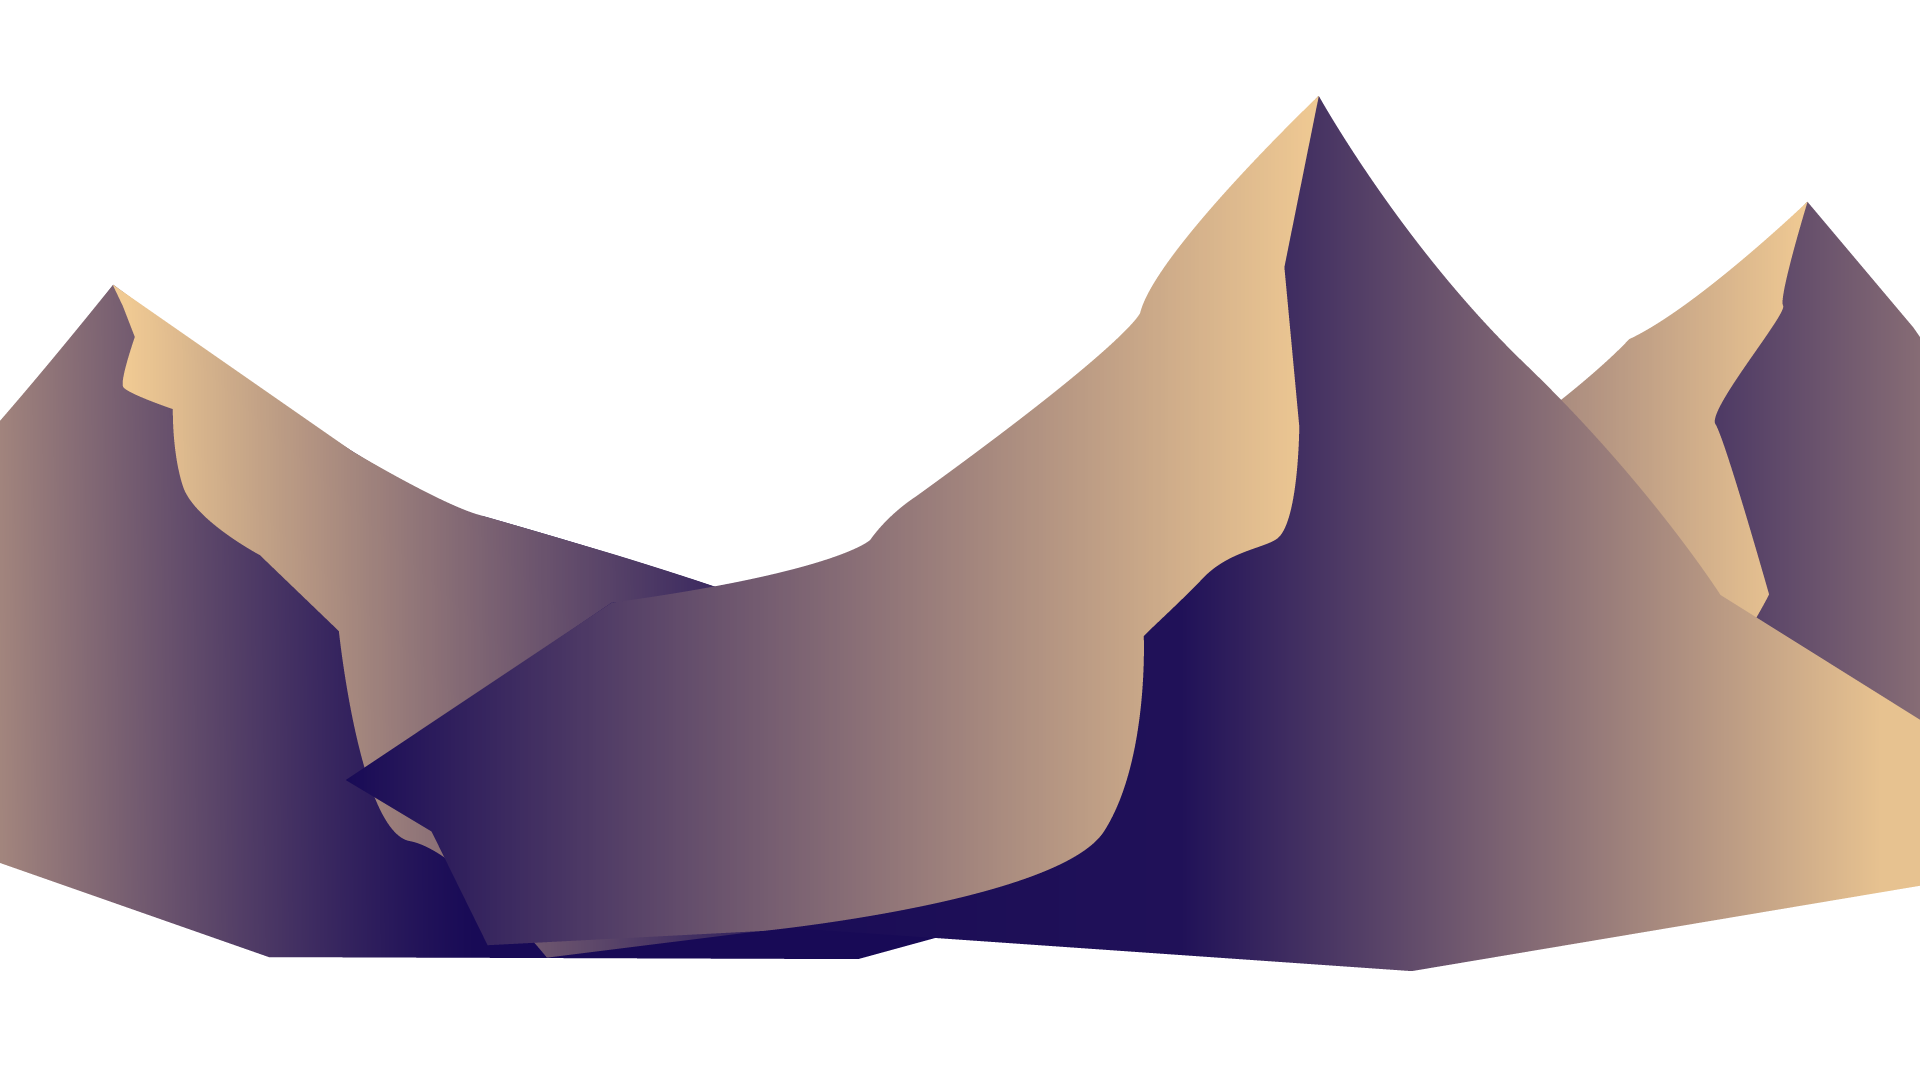
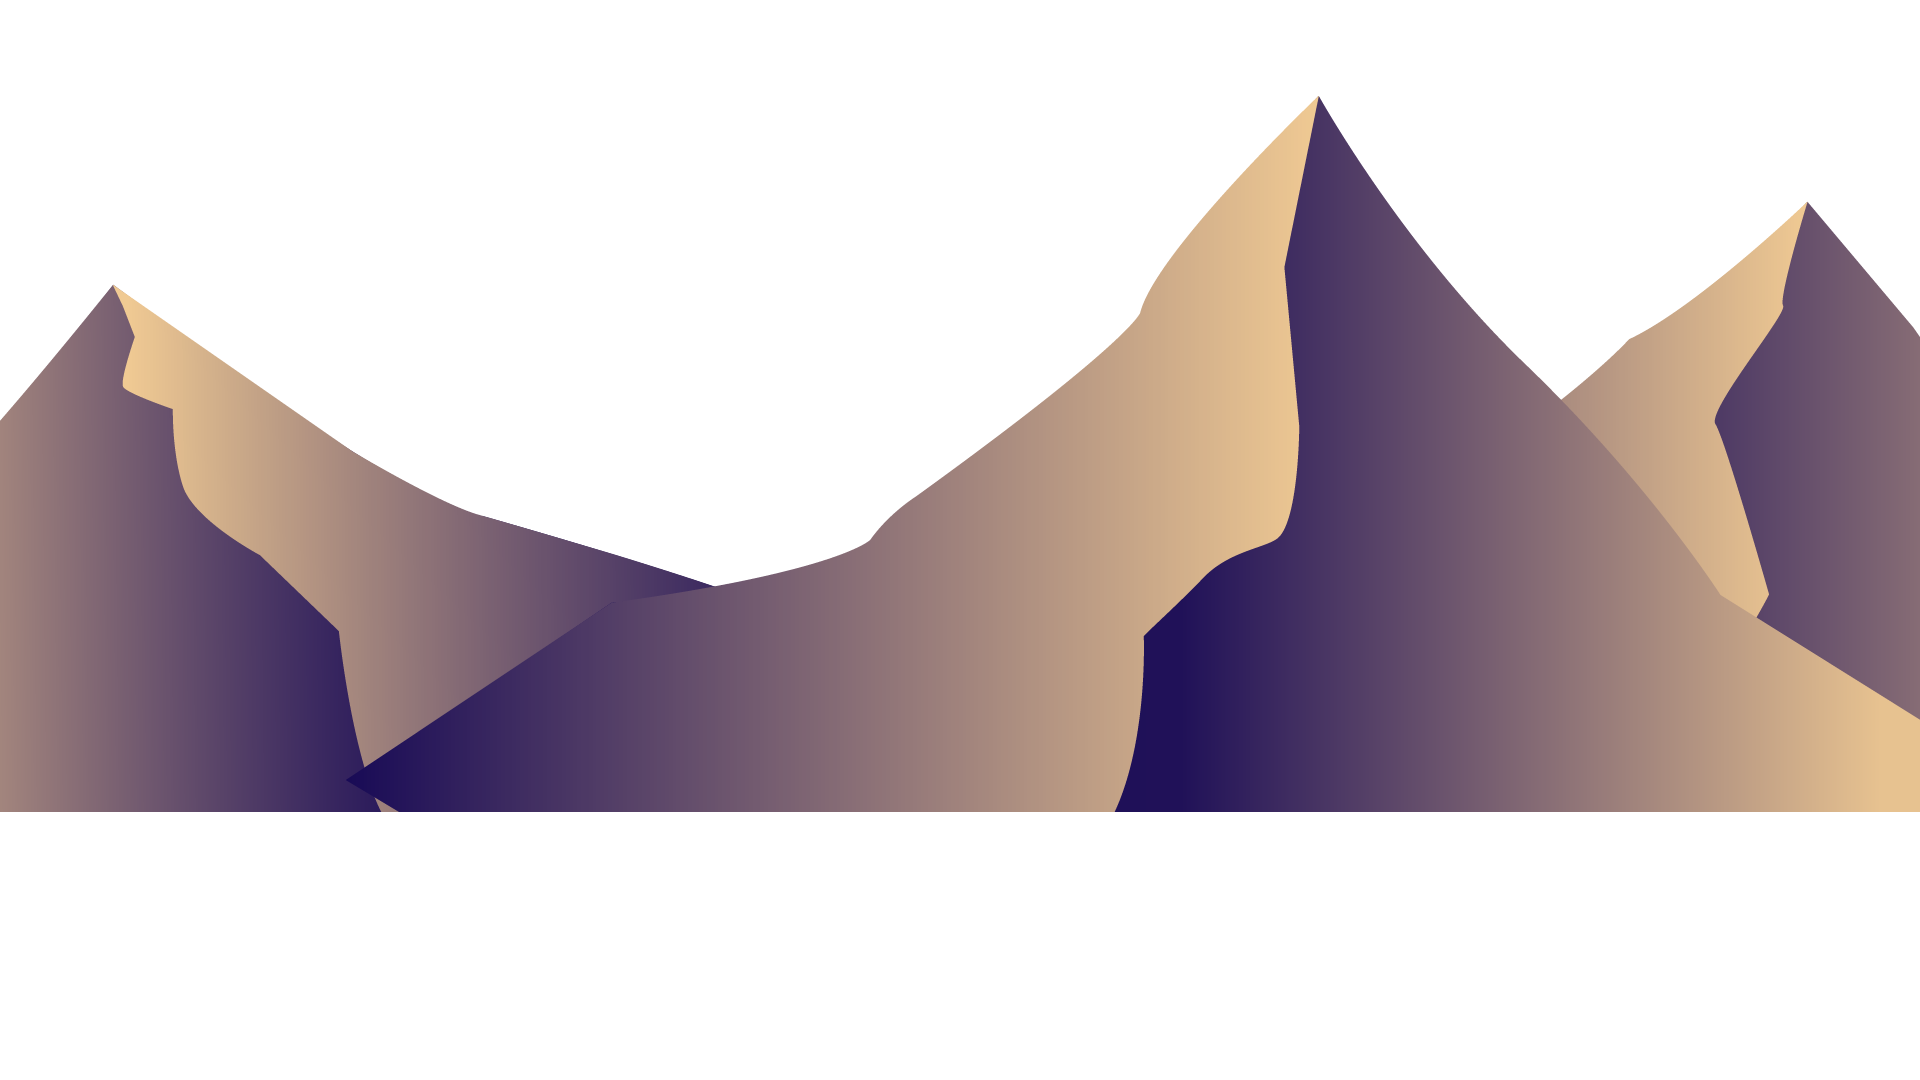
couple updates on the effect

Changed region(s): [[0.0, 0.7333, 1.0, 0.9167]]

diff --git a/style.css b/style.css
@@ -43,6 +43,7 @@ header ul{
     justify-content: center;
     align-items: center;
     flex-wrap: wrap;
+    
 }
 header ul li{
     list-style: none;
@@ -83,7 +84,26 @@ section img{
     object-fit: cover;
     pointer-events: none;
 }
-section #gradient{
+
+section div#box{
+    position: absolute;
+    top: 0;
+    left: 0;
+    width: 100%;
+    height: 100vh;
+    display: flex;
+    align-items: flex-end;
+    padding-top: 200px;
+}
+
+section div#cover{
+    background: #161616;
+    width: 100%;
+    height: 50%;
+    z-index: 8;
+}
+
+section#gradient{
     position: absolute;
     height: 100px;
     width: 100%;
@@ -112,19 +132,32 @@ section img#mFront{
     z-index: 12;
 
 }
+
+div#blackBox{
+    position: relative;
+    width:100%;
+    height: 200px;
+    margin-top: 0px;
+    top: 0px;
+    z-index: 14;
+    background: linear-gradient(to top,#161616,black);
+}
+
 .sec{
+    padding-top: 400px;
     position: relative;
     margin-top: -270px;
-    padding-top: 200px;
     padding: 100px;
+    padding-top: 200px;
     background:#161616;
     z-index: 10;
+    justify-content: center;
+    align-items: center;
 }
 .sec h2{
     font-size: 4em;
     color: white;
     padding-left: 50px;
-    z-index:1;
 }
 .sec p{
     font-size: 1.2em;
@@ -134,8 +167,8 @@ section img#mFront{
 
 .sec img{
     float: left;
-    height: 20%;
-    width: 20%;
+    height: 400px;
+    width: 400px;
     max-width: 500px;
     min-width: 300px;
     padding: 30px;
@@ -148,13 +181,13 @@ section img#mFront{
     position: relative;
     padding: 100px;
     background: #161616;
+    z-index: 9;
 }
 
 .sec2 h2{
     font-size: 4em;
     color: white;
     padding-left: 50px;
-    z-index:1;
 }
 
 .sec2 #picture2{
@@ -220,25 +253,7 @@ section img#mFront{
     color: white;
 }
 
-div#blackBox{
-    position: relative;
-    width:100%;
-    height: 200px;
-    margin-top: -50px;
-    top: 0px;
-    z-index: 14;
-    background: linear-gradient(to top,#161616,black);
-}
 
- div#blackBox2{
-    position: absolute;
-    width:100%;
-    height: 200px;
-    margin-top: 0px;
-    top: 700px;
-    z-index: 8;
-    background: #161616;
-} 
 
 .addInfo{
     margin: 50px;

diff --git a/app.js b/app.js
@@ -27,15 +27,15 @@ let aboutB = new Button(document.getElementById('about'),"notActive");
 
 window.addEventListener('scroll', function(){
     let value = window.scrollY;
-    ground.style.top = value*-0.5+'px';
+    ground.style.top = value*-0.7+'px';
     // gradient.style.top =790+(value)+'px';
     // bottomPart.style.top = value+'px';
     mfront.style.top = value*-0.2+'px';
-    tback.style.top = value*-0.3+'px';
-    tfront.style.top = value*-0.4+'px';
-    blackbox.style.top = value*-0.5+'px';
+    tback.style.top = value*-0.4+'px';
+    tfront.style.top = value*-0.5+'px';
+    blackbox.style.top = value*-0.7+'px';
     birds.style.top = value*-0.1 +'px';
-    if(value>400 && value<900){
+    if(value>400 && value<1200){
         if(!debounce){
             debounce = true;
             picture.style.opacity = 1;
@@ -46,7 +46,7 @@ window.addEventListener('scroll', function(){
             startB.id.className = "notActive";
         }
     }
-    if(value>900 && value<1000 ){    
+    if(value>1200 && value<2000){    
         if(!debounce2){
             debounce2 = true;
             picture2.style.opacity = 1;

diff --git a/index.html b/index.html
@@ -18,6 +18,7 @@
         </header>
         
         <section>
+            <div id=box><div id=cover></div></div>
             <img src="img/background.png" id="background" alt="">
             <img src="img/sun.png" id ="sun" alt="">
             <img src="img/mountainsBack.png" id="mBack" alt="">
